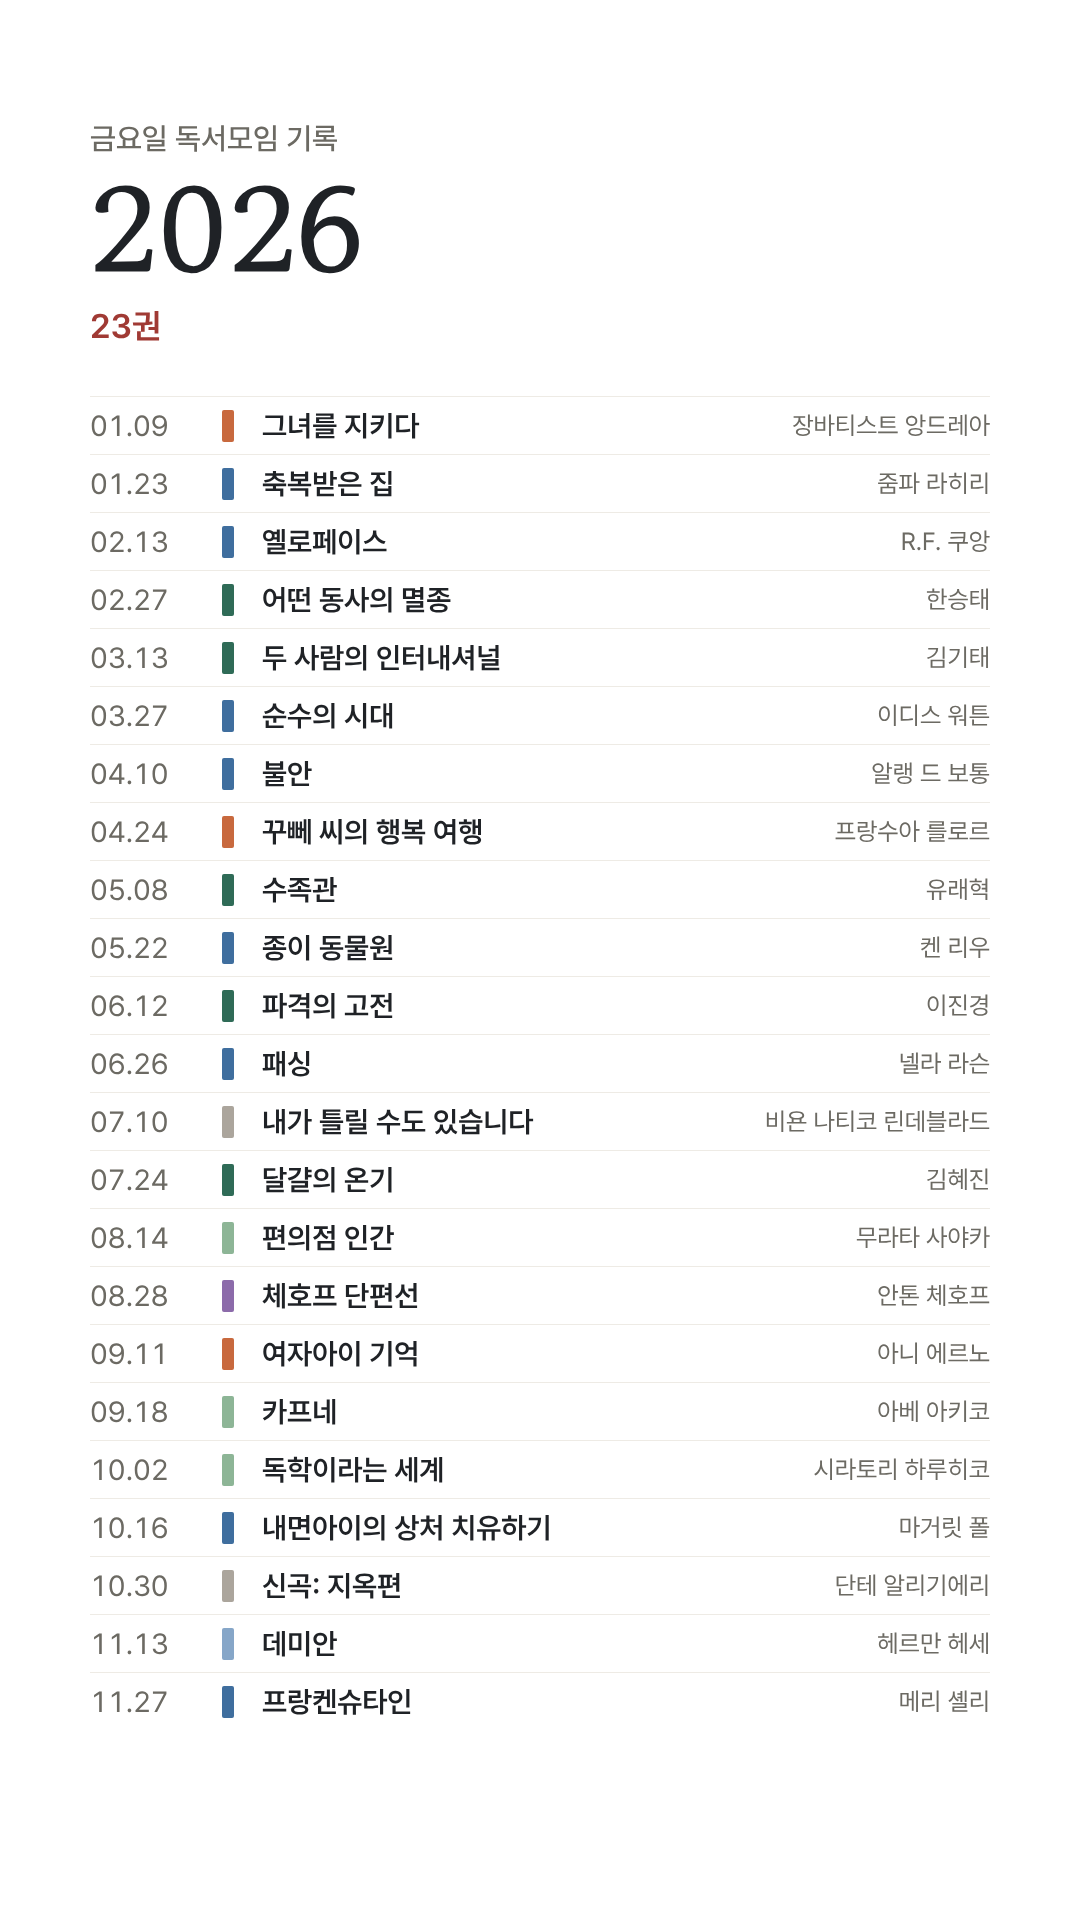
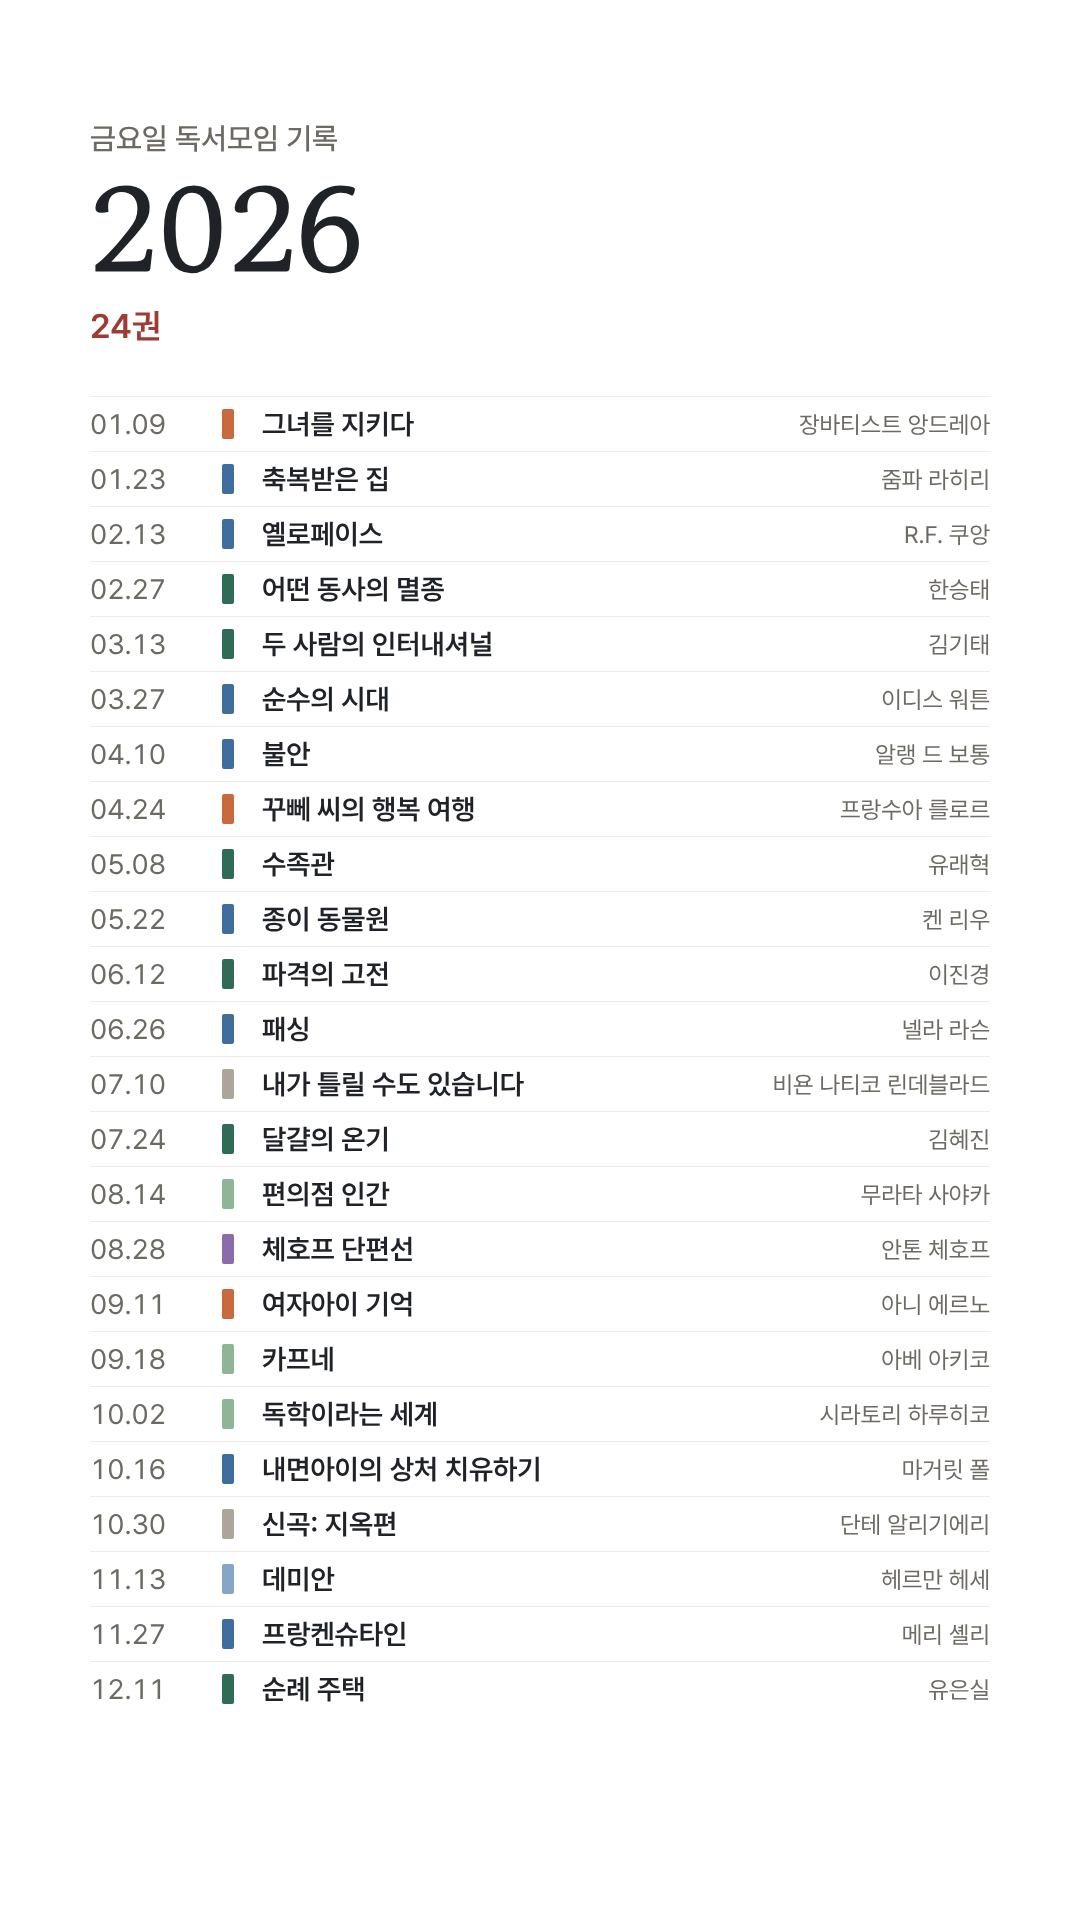
새 책: 순례 주택 (유은실, 2026.12.11)
- books.js에 한 줄 추가, lists/2026.png 다시 만듦 (24권)
- archive.html 세부 장르 문장: 동화·청소년 3권 → 4권

Claude-Session: https://claude.ai/code/session_015nyXP3dZhvjSKQRbha3j4L

diff --git a/archive.html b/archive.html
@@ -177,7 +177,7 @@ section:first-of-type{padding-top:20px}
 <section>
 <div class="sec-head"><h2>세부 장르 열한 갈래</h2></div>
 <div class="bars" id="subbars"></div>
-<p class="note">열한 갈래로 나눠보면 성격 변화가 분명합니다. <strong>실용·자기계발 4권 중 3권은 2023년 이전</strong>이고, 2024–2025년에는 한 권도 없다가 2026년 『내면아이의 상처 치유하기』로 다시 등장했습니다. 반대로 <strong>과학·의학 8권 중 7권이 2024년 이후</strong>에 몰려 있습니다. 『원씽』·『인플레이션에서 살아남기』 자리를 『침묵의 봄』·『넥서스』·『경험의 멸종』이 대신한 셈입니다. 문학 쪽에서는 <strong>소설집 12권 중 5권이 2026년</strong>에 몰려 있어 최근 단편 취향이 뚜렷합니다. 동화·청소년 3권은 모두 2022년 한 해에 읽었고, 2026년 10월 『신곡: 지옥편』으로 처음 시가 서가에 올랐습니다.</p></section>
+<p class="note">열한 갈래로 나눠보면 성격 변화가 분명합니다. <strong>실용·자기계발 4권 중 3권은 2023년 이전</strong>이고, 2024–2025년에는 한 권도 없다가 2026년 『내면아이의 상처 치유하기』로 다시 등장했습니다. 반대로 <strong>과학·의학 8권 중 7권이 2024년 이후</strong>에 몰려 있습니다. 『원씽』·『인플레이션에서 살아남기』 자리를 『침묵의 봄』·『넥서스』·『경험의 멸종』이 대신한 셈입니다. 문학 쪽에서는 <strong>소설집 12권 중 5권이 2026년</strong>에 몰려 있어 최근 단편 취향이 뚜렷합니다. 동화·청소년 4권 중 3권은 2022년에 읽었고 2026년 12월 『순례 주택』으로 4년 만에 다시 이어졌으며, 2026년 10월 『신곡: 지옥편』으로 처음 시가 서가에 올랐습니다.</p></section>
 
 <section>
 <div class="sec-head"><h2>어떤 언어로 쓰인 책인가</h2>

diff --git a/books.js b/books.js
@@ -121,7 +121,8 @@ const D=[
 [2026, "10.16", "내면아이의 상처 치유하기", "마거릿 폴", 436, "영어", 1992, "논픽션", 0, 1, 0, "실용·자기계발", 189.1, "초록북스", "9791160024302"],
 [2026, "10.30", "신곡: 지옥편", "단테 알리기에리", 399, "이탈리아어", 1314, "문학", 0, 0, 0, "시", 881, "민음사", "9788937461507"],
 [2026, "11.13", "데미안", "헤르만 헤세", 242, "독일어", 1919, "문학", 1, 0, 1946, "장편소설", 853, "민음사", "9788937460449"],
-[2026, "11.27", "프랑켄슈타인", "메리 셸리", 320, "영어", 1818, "문학", 0, 1, 0, "장편소설", 843.4, "현대지성", "9791166815386"]
+[2026, "11.27", "프랑켄슈타인", "메리 셸리", 320, "영어", 1818, "문학", 0, 1, 0, "장편소설", 843.4, "현대지성", "9791166815386"],
+[2026, "12.11", "순례 주택", "유은실", 256, "한국어", 2021, "문학", 0, 1, 0, "동화·청소년", 813.7, "비룡소", "9788949123493"]
 ];
 
 // 보관본(archive.html) "시기" 섹션의 연도별 이름과 소개. 메인 페이지는 쓰지 않습니다.
